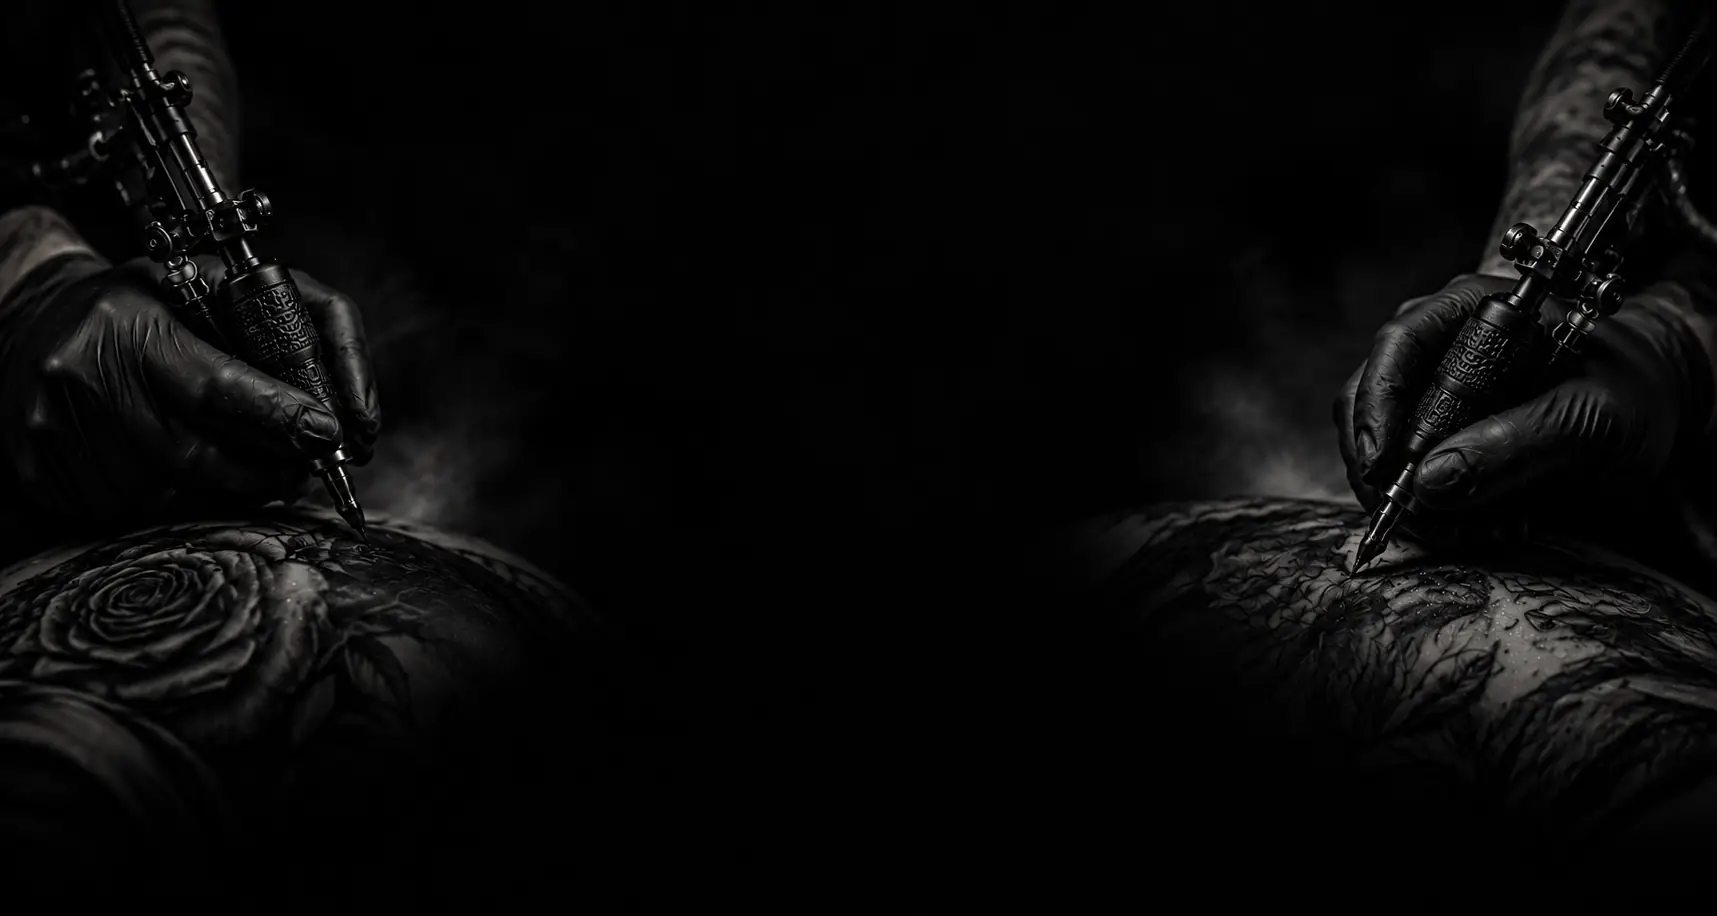
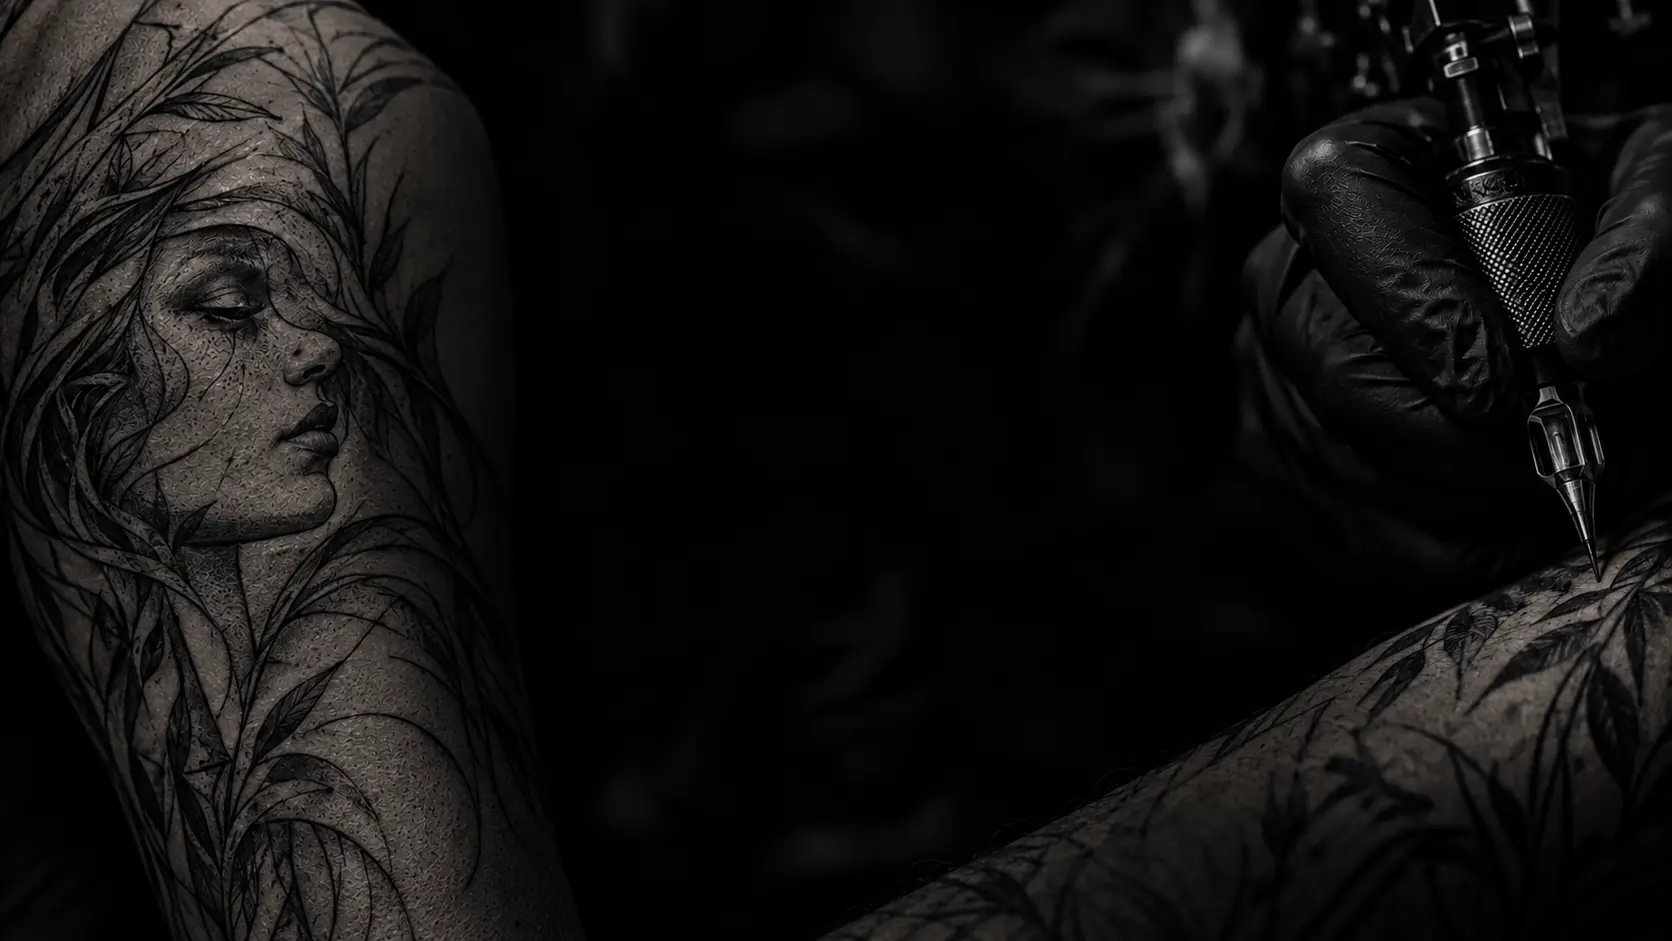
modificação na imagem css hero para mobile

Changed region(s): [[0.0, 0.0, 0.311, 1.0], [0.4976, 0.0, 1.0, 1.0], [0.7464, 0.2445, 0.7775, 0.3057]]

diff --git a/style-900.css b/style-900.css
@@ -58,7 +58,8 @@
     min-height: auto;
     justify-content: center;
     padding: 3rem 1.5rem 0;
-    background-position: left;
+    background-image:
+      var(--costura), var(--escurecer), url(img/hero-mobile.webp);
 
     & .container-hero {
       display: flex;
